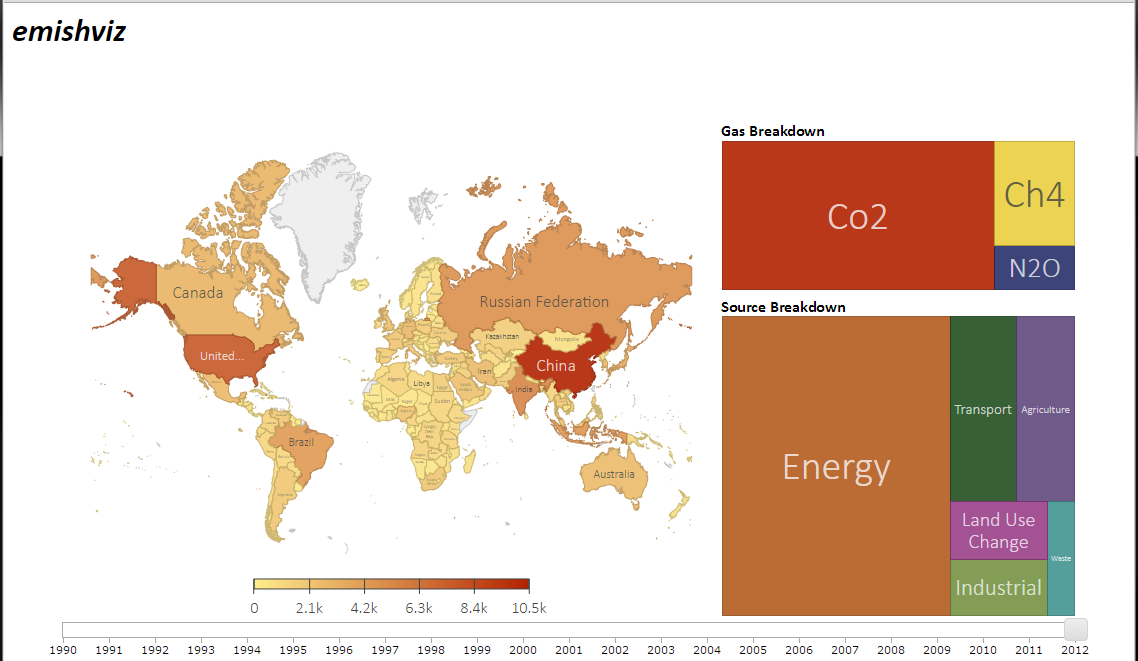
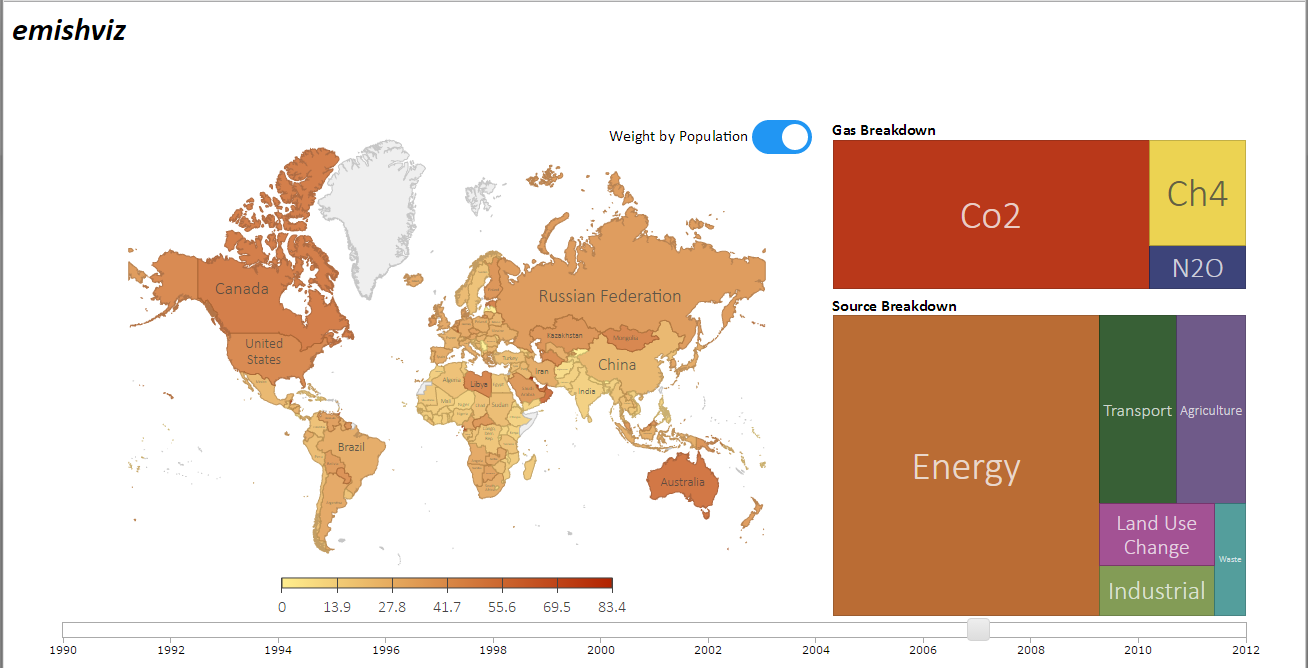
Tweaked filtering of map data such that countries with missing data are greyed-out rather than appearing as if they're zero-emitters

diff --git a/README.md b/README.md
@@ -6,5 +6,5 @@ Visualisation of greenhouse gas emissions
 ### Mockup
 ![Mockup](mockup.png)
 
-### 'So Far' Screenshot (18th Jan 2017)
+### 'So Far' Screenshot (19th Jan 2017)
 ![So Far](screenshot.PNG)
